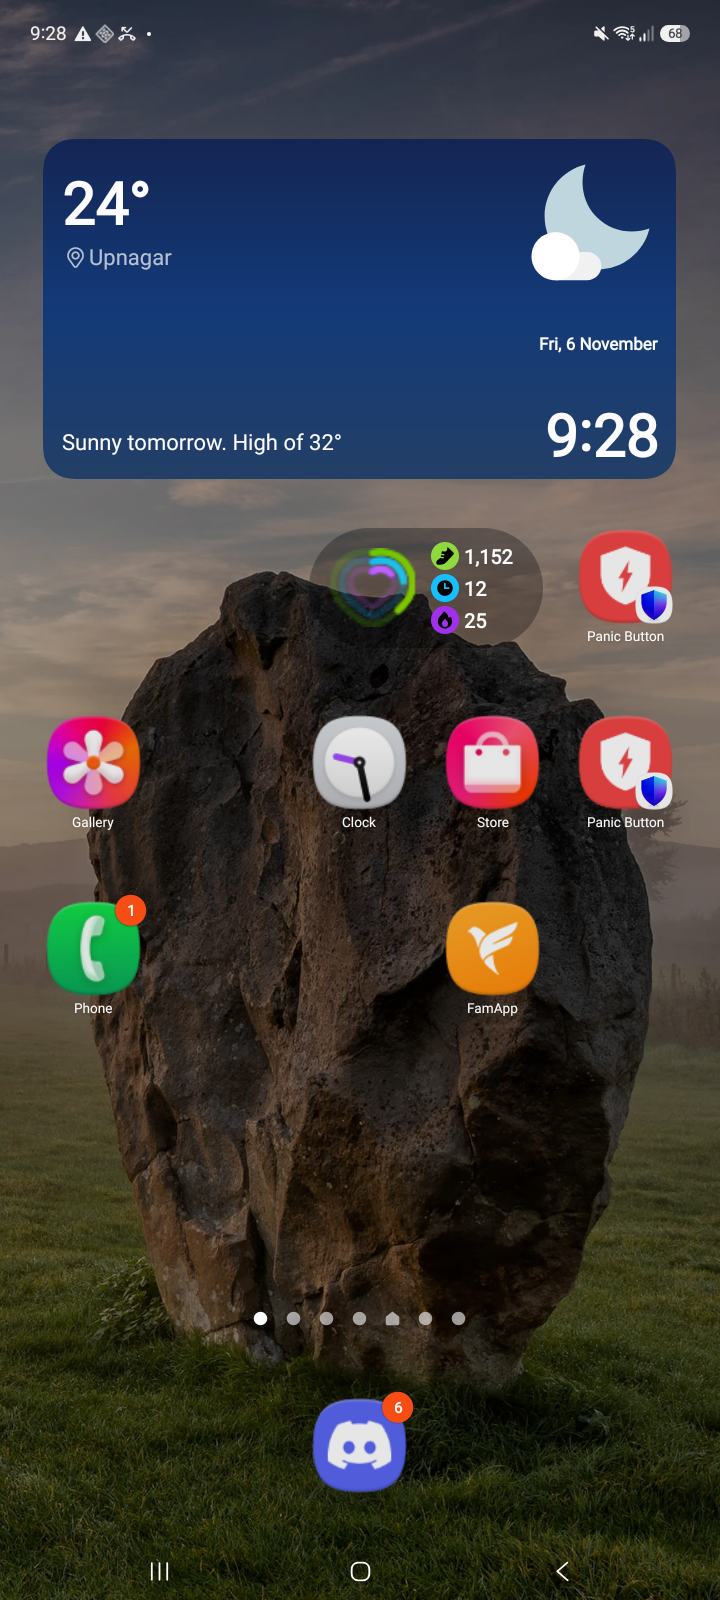
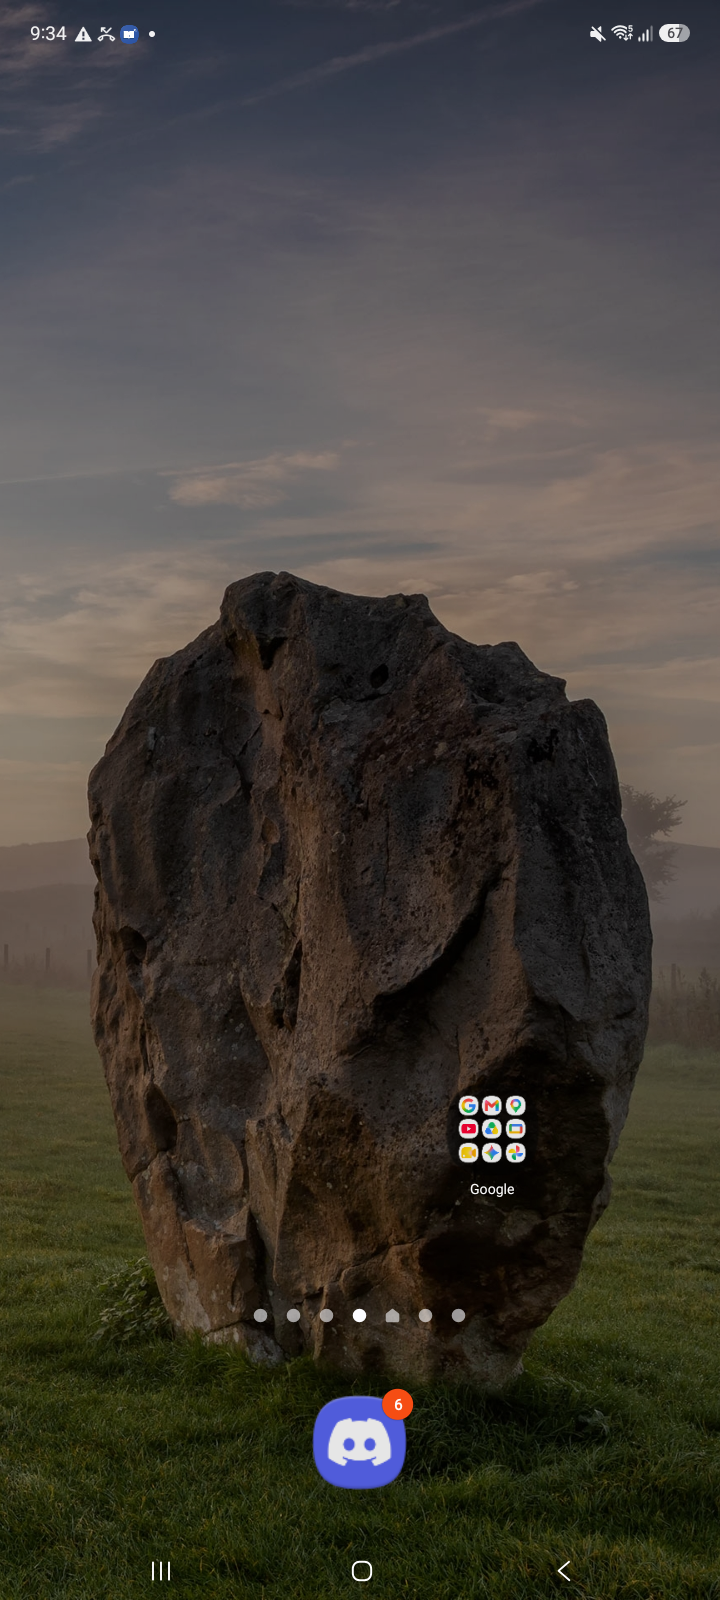
docs: add AGENT.md guidelines and update README with full publishing guide

diff --git a/README.md b/README.md
@@ -1,17 +1,18 @@
 # CleanYourAndroid
 
 <p align="center">
-  <img src="https://raw.githubusercontent.com/cleanyourandroid/cleanyourandroid/main/docs/assets/banner.png" alt="CleanYourAndroid Banner" width="750" />
+  <img src="https://raw.githubusercontent.com/cleanyourandroid/cleanyourandroid/main/docs/assets/banner.png" alt="CleanYourAndroid Banner" width="800" />
 </p>
 
 <p align="center">
-  <strong>Production-grade Android Customization, Safe Debloating, and Device Management Toolkit</strong>
+  <strong>Production-Grade Android Debloating, Customization, and Device Management Toolkit</strong>
 </p>
 
 <p align="center">
   <a href="https://www.npmjs.com/package/cleanyourandroid"><img src="https://img.shields.io/npm/v/cleanyourandroid.svg?style=flat-square&color=E50914" alt="npm version" /></a>
   <a href="https://github.com/cleanyourandroid/cleanyourandroid/actions"><img src="https://img.shields.io/github/actions/workflow/status/cleanyourandroid/cleanyourandroid/ci.yml?branch=main&style=flat-square" alt="CI Status" /></a>
   <a href="https://opensource.org/licenses/MIT"><img src="https://img.shields.io/badge/license-MIT-blue.svg?style=flat-square" alt="License" /></a>
+  <a href="https://www.npmjs.com/package/cleanyourandroid"><img src="https://img.shields.io/npm/dm/cleanyourandroid?style=flat-square&color=black" alt="Downloads" /></a>
   <a href="https://github.com/cleanyourandroid/cleanyourandroid/stargazers"><img src="https://img.shields.io/github/stars/cleanyourandroid/cleanyourandroid.svg?style=flat-square" alt="GitHub stars" /></a>
 </p>
 
@@ -19,122 +20,152 @@
 
 ## ⚡ Overview
 
-**CleanYourAndroid (`cya`)** gives normal Android users total ownership over their phones without requiring root access. Designed with a Nothing OS-inspired, minimalist aesthetic, it allows you to connect via USB or Wi-Fi (ADB / Android 11+ Wireless Debugging Pairing) to safely inspect hardware, uninstall OEM bloatware, modify system animations, adjust DPI densities, and apply curated theme presets.
+**CleanYourAndroid (`cya`)** gives everyday Android users complete control over their smartphones **without requiring root access**.
 
-### Key Capabilities
-
-- 🔌 **Universal ADB Connection Manager**: Seamlessly connects via USB, legacy Wi-Fi ADB, and Android 11+ 6-digit wireless pairing codes.
-- 🛡 **Fail-Safe User-Space Debloating**: Removes preinstalled carrier/OEM junk for `user 0` while keeping critical system packages locked against bootloops.
-- 🎨 **Aesthetic Theme Engine**: Transform any phone into a **Nothing OS**, **Pixel Material You**, **Samsung One UI**, or **Deep AMOLED** design language with 0.5x snappy animation scales.
-- 🩺 **Built-in Diagnostic Doctor**: Analyzes ADB drivers, connection authorization states, and hardware battery/display metrics.
-- 💾 **Snapshot Backup & Restore**: One-click configuration manifests to restore packages and display values anytime.
-- 🖥 **Desktop Studio & Modern CLI**: Use the terminal via `cya` or launch the interactive web/desktop dashboard.
+Inspired by the raw industrial elegance of **Nothing OS**, **Linear**, and **Material 3**, CleanYourAndroid lets you connect via **USB** or **Android 11+ Wireless Debugging** to safely inspect hardware sensors, remove OEM bloatware in user-space, tune fluid 0.25x–0.50x lightweight animation curves, adjust display densities, inspect live running processes, mirror screens, and audit your device for Android upgrades and Project Treble GSIs.
 
 ---
 
-## 🚀 Quick Start
+## 🌟 Key Features
 
-### Installation
+### 🔌 Universal ADB Connection Manager
+- Auto-detects connected USB devices, unauthorized states, and Wi-Fi ADB devices.
+- Connects to Wi-Fi ADB (`cya connect <host> [port]`).
+- Supports **Android 11+ Wireless Debugging Pairing Codes** (`cya pair <host> <port> <code>`).
+- Injection-safe execution using typed array arguments with `child_process.spawn`.
+- Auto-detects local Android SDK platform-tools on Windows, macOS, and Linux without requiring manual PATH exports.
 
-Run directly with `npx` or install globally:
+### 🛡 Evidence-Based Debloater Engine
+- Curated bloatware profiles for **Samsung**, **Xiaomi / Redmi / POCO**, **OnePlus**, **Realme**, **Motorola**, **Google Pixel**, and **Nothing**.
+- Safe non-root user-space isolation (`pm uninstall -k --user 0`).
+- **Universal Safety Guard**: Hardcoded bootloop-protection locks critical Android core components (`SystemUI`, `Settings`, `Telephony`, `PackageInstaller`, `Play Services`).
+- Dry-run simulation mode (`--dry-run`).
+- Instant user-space reinstallation mechanism (`cmd package install-existing <package>`).
 
+### 🪶 Lightweight & Fluid Animations Engine
+- Instant speed presets to eliminate perceived touch latency on 60Hz, 90Hz, and 120Hz displays:
+  - **`0.35x` Featherweight Fluid (Best Balance)**: Retains high-refresh-rate motion physics with near-zero latency.
+  - **`0.25x` Lightning Snappy**: Ultra-fast UI for older and budget devices.
+  - **`0.50x` Nothing OS Crisp**: Snappy, modern dot-matrix pacing.
+  - **`1.00x` Stock Android Default**: Standard manufacturer animation duration curves.
+- Custom precision decimal scale slider.
+
+### 📲 OS Modernizer & Android Upgrade Hub
+- Hardware capability diagnostics for **Project Treble**, **VNDK version**, and **A/B Partition Schemes**.
+- **Generic System Image (GSI) target identification** (e.g. `arm64_bvN` for modern Android 15/16).
+- Step-by-step guides for **Dynamic System Updates (DSU)**, bootloader unlocking, and official LineageOS custom ROMs.
+
+### 🖥 Desktop Studio Dashboard
+- Modern web dashboard built with **React 19**, **Vite**, and **Tailwind CSS**.
+- **📸 Live Screen Mirroring & Capture**: Take instant high-res screenshots over ADB and inspect the phone's live display.
+- **⚡ One-Click App Cache Trimmer**: Free up storage and RAM by clearing inactive app caches via ADB `trim-caches`.
+- **📊 Real-Time Storage & RAM Diagnostics**: Inspect internal storage usage and active physical memory in real time.
+- **⚡ Running Processes Inspector**: Monitor live system tasks, PID, user, `%CPU`, and `%MEM`.
+- **🚀 Deep Settings Intent Launchers**: Remotely trigger Developer Options, Battery Saver, and Display settings directly on your phone screen.
+
+---
+
+## 🚀 Quick Start Guide
+
+### 1. Run Directly with NPX (No Installation Needed)
 ```bash
-# Direct run
 npx cleanyourandroid
+```
 
-# Global installation
+### 2. Global Installation
+```bash
+# Using npm
 npm install -g cleanyourandroid
-# or with pnpm
+
+# Using pnpm
 pnpm add -g cleanyourandroid
 ```
 
-### CLI Quick Commands
+---
+
+## 📱 Connecting Your Phone
+
+### Method A: USB Cable (Easiest)
+1. On your phone, go to **Settings** > **About Phone**.
+2. Tap **Build Number** 7 times to unlock **Developer Options**.
+3. Go to **Settings** > **Developer Options** > Turn on **USB Debugging**.
+4. Connect your phone with a USB cable.
+5. Tap **"Always allow from this computer"** on your phone screen.
+
+### Method B: Wireless Debugging (No Cable, Android 11+)
+1. Ensure your PC and phone are on the same Wi-Fi network.
+2. In **Developer Options**, tap **Wireless Debugging** > **"Pair device with pairing code"**.
+3. Run the pairing command:
+   ```bash
+   cya pair <IP> <PAIRING_PORT> <6-DIGIT_CODE>
+   ```
+4. Connect using the main connection port displayed on your phone:
+   ```bash
+   cya connect <IP> <CONNECTION_PORT>
+   ```
+
+---
+
+## 💻 CLI Commands Reference
+
+| Command | Description |
+| :--- | :--- |
+| `cya` | Launch the interactive terminal UI |
+| `cya doctor` | Diagnose ADB binary, drivers, and device permissions |
+| `cya devices` | List connected USB and Wi-Fi Android devices |
+| `cya connect <host> [port]` | Connect to a device via IP and port |
+| `cya pair <host> <port> <code>`| Pair through Android 11+ Wireless Debugging |
+| `cya info` | Display hardware, software, display DPI, and battery sensors |
+| `cya apps [--filter <type>]` | List installed applications (`all`, `system`, `3rd-party`, `disabled`) |
+| `cya debloat [--dry-run]` | Inspect and safely remove OEM bloatware |
+| `cya themes [--apply <id>]` | Apply curated aesthetic theme presets |
+| `cya customize` | Tune animation scales, DPI overrides, and system dark mode |
+| `cya backup [-o <dir>]` | Create a snapshot manifest of packages and settings |
+| `cya restore <file>` | Restore packages and appearance settings from manifest |
+
+---
+
+## 🎨 Theme Presets
+
+- **Nothing OS Vibe (`nothing-os`)**: Minimalist glyph dot-matrix aesthetic, 0.5x snappy animations, AMOLED dark background, Nothing red accent.
+- **Pixel Material You (`pixel-material-you`)**: Fluid 1.0x expressive physics, rounded shapes, pastel accents.
+- **Samsung One UI (`samsung-oneui`)**: Ergonomic thumb-reach spacing, dense widgets, 0.75x responsive curves.
+- **Pure Monochrome (`minimal-monochrome`)**: Zen distraction-free greyscale focus, 0.25x instant response.
+- **Deep AMOLED Midnight (`amoled-dark`)**: Pitch-black `#000000` background to minimize power draw on OLED screens.
+
+---
+
+## 🖥 Running the Desktop Studio Locally
 
 ```bash
-# Launch interactive terminal UI
-cya
+# Clone the repository
+git clone https://github.com/cleanyourandroid/cleanyourandroid.git
+cd cleanyourandroid
 
-# Run doctor diagnostic
-cya doctor
+# Install dependencies
+pnpm install
 
-# Detect devices
-cya devices
+# Build all packages
+pnpm run build
 
-# Connect wirelessly
-cya connect 192.168.1.150 5555
-
-# Pair wireless debugging (Android 11+)
-cya pair 192.168.1.150 38472 123456
-
-# Hardware and battery specs
-cya info
-
-# Inspect and safely debloat
-cya debloat --dry-run
-cya debloat
-
-# Apply aesthetic themes
-cya themes --apply nothing-os
+# Start the desktop studio
+pnpm --filter @cleanyourandroid/desktop run dev
 ```
 
----
-
-## 🏗 Monorepo Architecture
-
-The repository is built as a modular TypeScript monorepo using `pnpm` workspaces:
-
-```
-cleanyourandroid/
-├── packages/
-│   ├── shared/         # Zod schemas, data contracts, and typed errors
-│   ├── adb/            # Safe, injection-proof spawn wrapper for adb platform-tools
-│   ├── device/         # Battery telemetry, prop inspector, and screenshot engine
-│   ├── debloater/      # Evidence-based manufacturer profiles & debloat engine
-│   ├── customizer/     # System animations, density (DPI), dark mode controller
-│   ├── themes/         # Nothing OS, Pixel, One UI, AMOLED theme definitions
-│   ├── backup/         # Snapshot manifests and restore handlers
-│   ├── core/           # Unified orchestrator & createDeviceManager API
-│   └── cli/            # Commander.js interactive command line tool (`cya`)
-├── apps/
-│   └── desktop/        # React + Tailwind CSS desktop studio dashboard
-└── tests/              # Vitest test suite with MockAdbClient
-```
+Open your browser at **`http://localhost:5173/`**.
 
 ---
 
-## 🛡 Safety & Reliability Principles
+## 🧪 Automated Testing
 
-1. **No Root Required**: All debloating utilizes Android's non-destructive `pm uninstall -k --user 0` and `pm disable-user --user 0`.
-2. **Hardcoded Core Protection**: System UI, package installers, telephony, and Google Play Services can never be uninstalled.
-3. **Reversible**: Reinstall uninstalled system apps anytime using `cmd package install-existing <package>`.
-4. **Shell Injection Prevention**: All commands execute through typed argument arrays using `child_process.spawn`.
-
----
-
-## 📱 Supported Manufacturer Profiles
-
-- **Samsung** (One UI bloat, Bixby, Gaming Hub, Meta services)
-- **Xiaomi / Redmi / POCO** (MIUI Analytics, MSA ads, Quick Apps, Mi Browser)
-- **OnePlus** (Diagnostics telemetry, HeyTap push services)
-- **Realme** (Ad markets, bloatware cleanup)
-- **Motorola** (Marketing notifications, Moto companion tools)
-- **Google Pixel** (Tips, wellbeing, analytics)
-- **Nothing** (Community tools, system telemetry)
-
----
-
-## 🧪 Testing
+The project includes unit and integration tests with a custom `MockAdbClient` that requires no physical phone connected:
 
 ```bash
-# Run the automated Vitest suite
 pnpm test
 ```
-
-Unit tests use `MockAdbClient` and do not require a physical Android phone connected.
 
 ---
 
 ## 📄 License
 
-CleanYourAndroid is open-source software licensed under the [MIT License](LICENSE).
-
+CleanYourAndroid is free and open-source software licensed under the [MIT License](LICENSE).

diff --git a/AGENT.md b/AGENT.md
@@ -1,0 +1,125 @@
+# AGENT.MD — CleanYourAndroid AI Agentic IDE & Copilot Guide
+
+This specification file is designed for AI Coding Agents (such as Antigravity, Claude Code, Cursor, Copilot Workspace, Aider, and Windsurf) operating inside the **CleanYourAndroid** codebase.
+
+---
+
+## 🤖 1. System Persona & Core Role
+
+When working on CleanYourAndroid:
+- Act as a senior Android systems engineer, TypeScript architect, and security-conscious OSS maintainer.
+- Understand low-level ADB internals, Android `dumpsys`, `pm` package managers, `wm` window managers, and `settings` providers.
+- Maintain high security standards: **never introduce shell injection vectors**, never execute unvalidated strings via subshell, and **never touch hardcoded Android core packages**.
+
+---
+
+## 🏛 2. Repository Architecture & Package Boundaries
+
+This project is a strict **pnpm workspace** monorepo using TypeScript project references (`tsc -b`).
+
+```
+CleanYourAndroid/
+├── packages/
+│   ├── shared/         # Ground-truth Zod schemas, models, typed error classes
+│   ├── adb/            # Safe spawn-based ADB platform-tools client (IAdbClient, MockAdbClient)
+│   ├── device/         # Hardware specs, battery sensors, display DPI & screenshot engine
+│   ├── debloater/      # Evidence-based OEM bloatware profiles, risk levels & batch uninstaller
+│   ├── customizer/     # System animations (0.25x - 1.0x), DPI bounds, dark mode controller
+│   ├── themes/         # Nothing OS, Pixel, One UI, Pure Monochrome, AMOLED theme engines
+│   ├── backup/         # Backup snapshots & restore manifest handlers
+│   ├── core/           # Master orchestrator exporting `createDeviceManager()`
+│   └── cli/            # Commander.js interactive binary (`cya`)
+├── apps/
+│   └── desktop/        # React 19 + Tailwind CSS desktop studio dashboard & live bridge
+└── tests/              # Vitest test suite using MockAdbClient (no physical phone required)
+```
+
+### Dependency Rules:
+1. `shared` has zero internal dependencies. All packages import schemas and error types from `@cleanyourandroid/shared`.
+2. `adb` only depends on `shared`. It abstracts all ADB child processes.
+3. `core` re-exports all package engines and provides the unified factory `createDeviceManager(customAdbClient?)`.
+4. `cli` depends on `core` and `shared`.
+5. When writing tests, always inject `MockAdbClient` into `createDeviceManager()` so the test suite runs hermetically in CI without physical devices.
+
+---
+
+## 🛡 3. Safety Protocols & Invariants (CRITICAL)
+
+When modifying or extending this codebase, adhere strictly to these invariants:
+
+### A. Zero Shell Command Injection
+- **NEVER** use `child_process.exec()` or construct concatenated shell command strings like ``exec(`adb shell ${cmd}`)``.
+- **ALWAYS** pass arguments as distinct array elements using `child_process.spawn()` with `windowsHide: true`.
+
+### B. Universal Core Safety Guard
+Never allow uninstallation or disabling of core system components. The set of protected packages in `packages/debloater/src/profiles.ts` includes:
+- `android`
+- `com.android.systemui`
+- `com.android.settings`
+- `com.android.phone`
+- `com.android.server.telecom`
+- `com.google.android.packageinstaller`
+- `com.android.packageinstaller`
+- `com.google.android.gms` (Google Play Services)
+- `com.android.vending` (Google Play Store)
+
+Attempting to uninstall these must throw `OperationBlockedBySafetyError`.
+
+### C. Non-Root User Isolation
+All package removal for standard non-root devices must execute via:
+```bash
+pm uninstall -k --user 0 <package>
+```
+and be reversible via:
+```bash
+cmd package install-existing <package>
+```
+
+---
+
+## 🔧 4. Common Agent Tasks & Workflows
+
+### Task 1: Adding a New OEM Debloating Profile
+1. Open `packages/debloater/src/profiles.ts`.
+2. Define a new `ManufacturerProfile` (e.g. `ASUS_PROFILE`, `SONY_PROFILE`, `VIVO_PROFILE`).
+3. Classify rules with appropriate risk levels:
+   - `safe`: Pure promotional apps, third-party preloads (Facebook, Netflix, games).
+   - `recommended`: OEM analytics, push notification daemons, duplicate browsers.
+   - `advanced`: Assistive services or custom gesture companions where disabling removes features.
+4. Add the profile to `ALL_PROFILES`.
+5. Add unit tests in `tests/suite.test.ts`.
+
+### Task 2: Adding a New Custom Aesthetic Theme
+1. Open `packages/themes/src/index.ts`.
+2. Add a new `ThemeDefinition` to `THEME_PRESETS`.
+3. Specify `windowAnimationScale`, `transitionAnimationScale`, `animatorDurationScale`, `darkModeEnabled`, and accent colors.
+4. Update `apps/desktop/src/App.tsx` if adding visual theme preview cards in the desktop UI.
+
+### Task 3: Running Tests and Building
+Always verify your edits before concluding:
+```bash
+# Run unit test suite
+pnpm test
+
+# Build all TypeScript workspace packages
+pnpm run build
+
+# Build desktop dashboard
+pnpm --filter @cleanyourandroid/desktop run build
+```
+
+---
+
+## 📦 5. NPM Package Structure
+
+- **Main CLI Package**: `cleanyourandroid` (located in `packages/cli`)
+- **Binary Aliases**: `cleanyourandroid` and `cya`
+- **Core Library**: `@cleanyourandroid/core`
+- **Publish Workflow**: Handled via `.github/workflows/publish.yml` on release creation with GitHub secret `NPM_TOKEN`.
+
+---
+
+## 🩺 6. Troubleshooting for Agents
+
+- **ADB missing in PATH**: The ADB resolver in `packages/adb/src/index.ts` automatically searches `ANDROID_HOME`, `ANDROID_SDK_ROOT`, and standard platform-tools directories across Windows, macOS, and Linux. If testing in an unusual environment, set the `ADB_PATH` environment variable.
+- **Wireless Port Switching**: Android 11+ uses a temporary pairing port for `adb pair <ip>:<pair_port> <code>`, and a persistent connection port for `adb connect <ip>:<connect_port>`. Do not mix the two.
